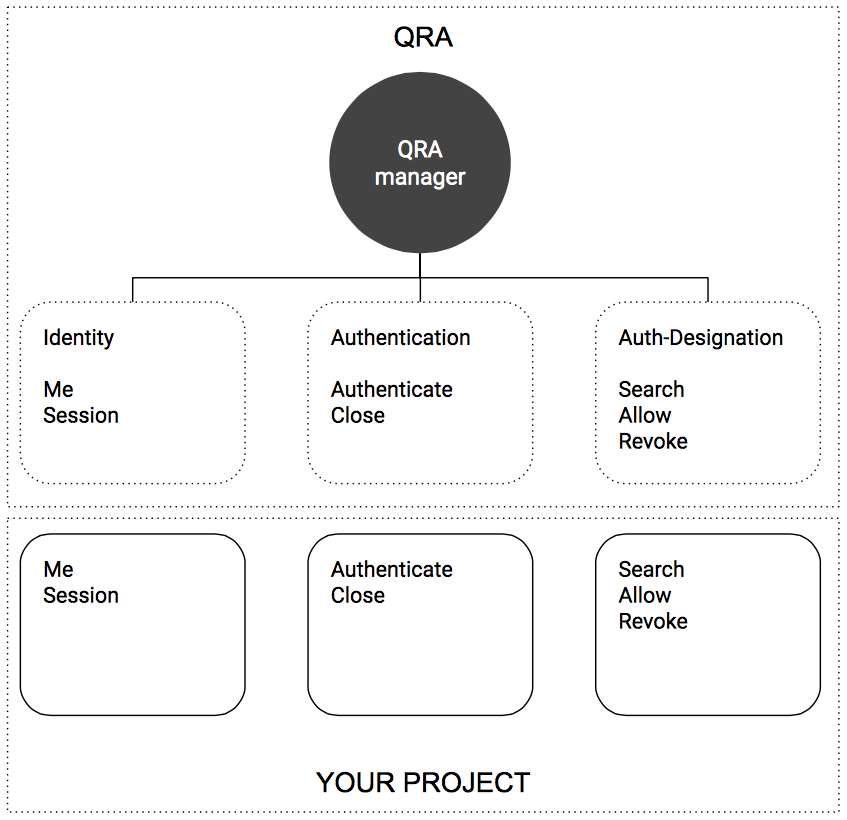
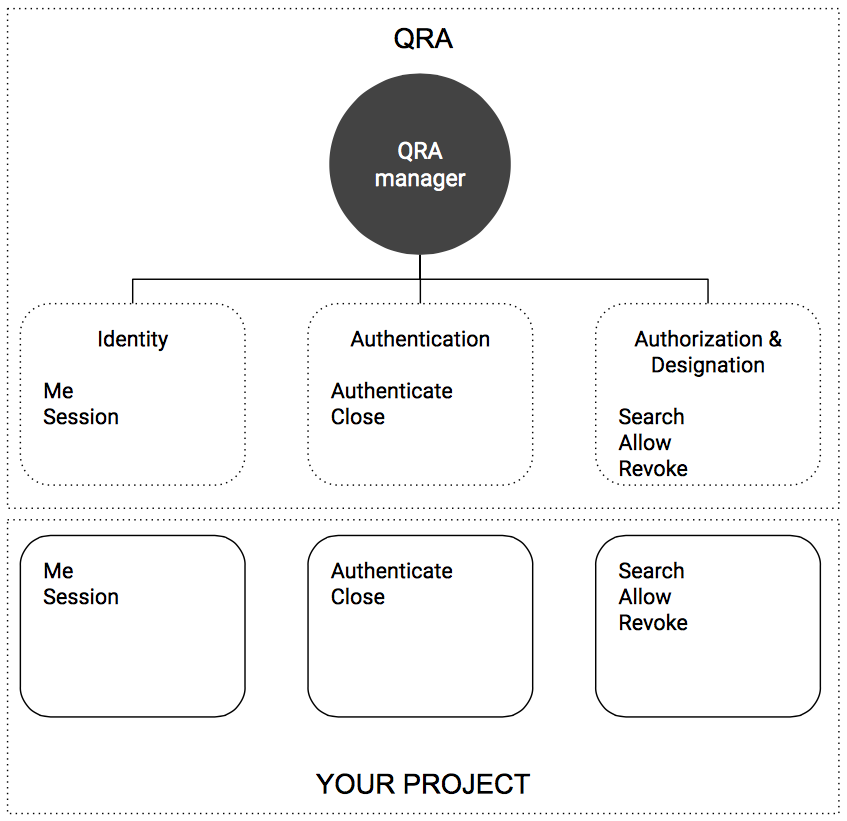
edit readme 3

diff --git a/README.md b/README.md
@@ -7,13 +7,70 @@
 [![Coverage Status](https://coveralls.io/repos/github/jimmy-go/qra/badge.svg?branch=master)](https://coveralls.io/github/jimmy-go/qra?branch=master)
 
 QRA is a collection of interfaces for common tasks building
-authentication and authorization designation.
+authentication and authorization-designation policies.
 
 ![diagram](diagram.png)
 
 #####Installation:
 ```
 go get gopkg.in/jimmy-go/qra.v0
+```
+
+#####Description:
+In order to understand QRA you must know:
+
+**Identity** is a responsible party person or non-person entity.
+
+**Authentication** is the means used to prove identity or take on
+a role.
+
+**Authorization** means access policy by explicitly granting a right.
+
+QRA is not limited to administrator sites, you can gain
+permission granularity for microservices too.
+
+```
+// Identity interface for management of identities (users).
+type Identity interface {
+	// Me method returns identity name (username, userID, etc.)
+	Me() string
+
+	// Session method returns current session or error.
+	// If session is found then is written to dst.
+	Session(dst interface{}) error
+}
+
+// Authentication interface for session management of users.
+type Authentication interface {
+	// Authenticate method makes login to user. It will call
+	// Me method to retrieve Identity username, validate
+	// if not session is present with Session method.
+	// Developer implementations of Authentication interface
+	// MUST have session storage methods.
+	Authenticate(ctx Identity, password string, dst interface{}) error
+
+	// Close method will delete session of current identity.
+	Close(ctx Identity) error
+}
+
+// Designation interface stands for Authorization-Designation
+// operations.
+type Designation interface {
+	// Search permission-designations and writes results to writer.
+	// Recommended format for results is: `permission:resource`.
+	// Return error if not permissions for identity was found.
+	// Filter parameter would allow search permissions by
+	// name, resource and has pagination (e.g.: `permission:resource/1-36` or
+	// `permission:resource/since/123abc`).
+	Search(ctx Identity, writer io.Writer, filter string) error
+
+	// Allow method shares identity permission over resource with dst identity.
+	Allow(ctx Identity, permission, resource, dst string, expiresAt time.Time) error
+
+	// Revoke method will revoke a permission that ctx previously
+	// give to dst.
+	Revoke(ctx Identity, permission, dst string) error
+}
 ```
 
 #####Usage:
